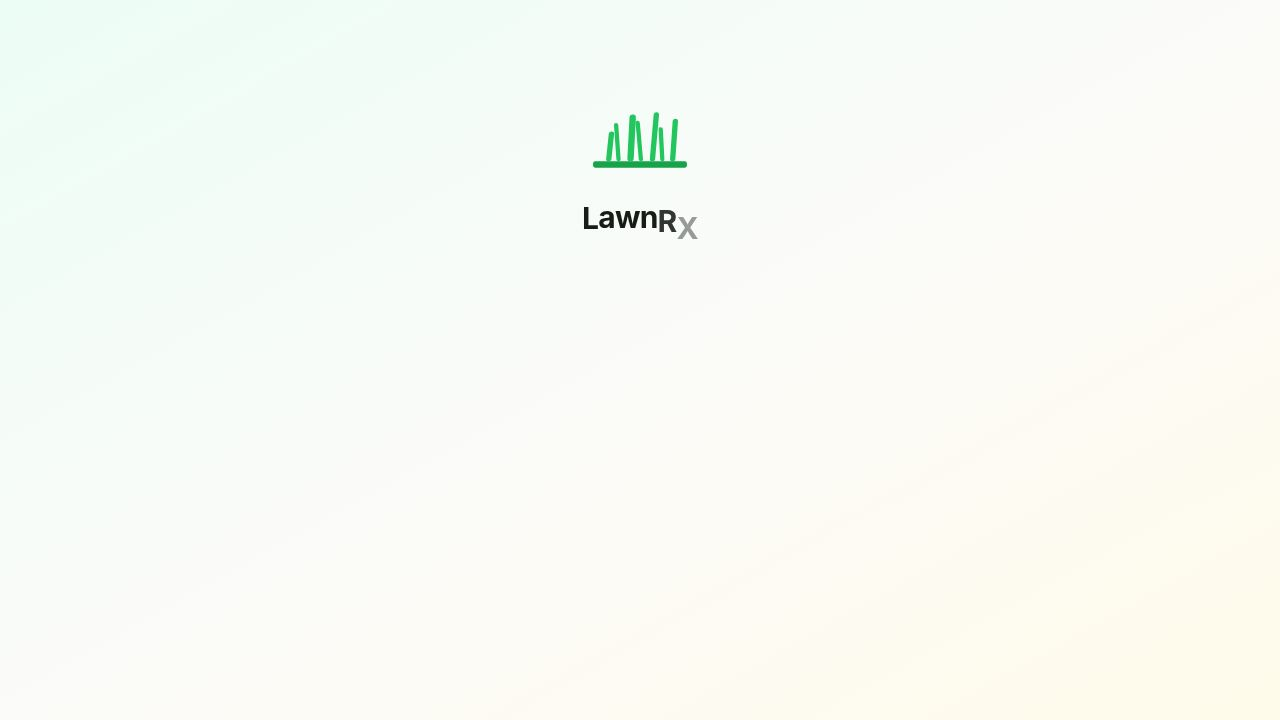
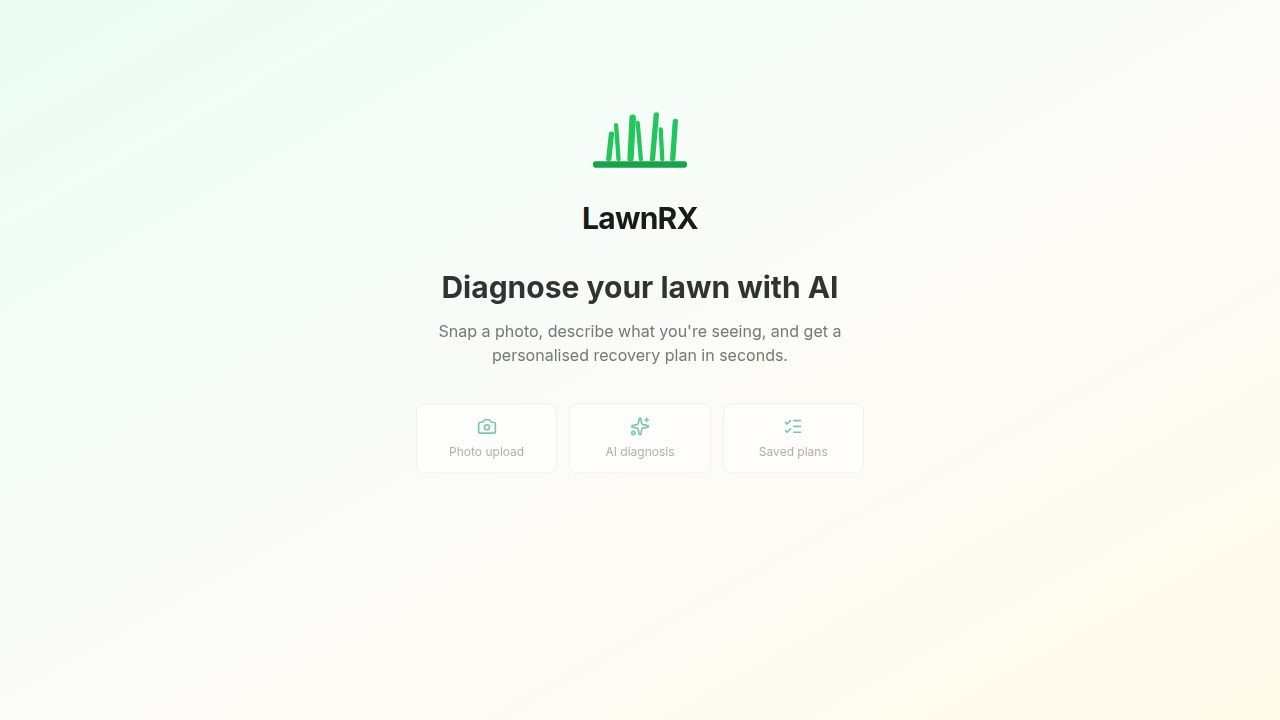
Add a way to contact local lawn care professionals
Create a new modal for users to submit their contact information and diagnosis details to local lawn care professionals, including a consent checkbox for data sharing.

Replit-Commit-Author: Agent
Replit-Commit-Session-Id: 96394951-5170-4deb-966e-e655e372a485
Replit-Commit-Checkpoint-Type: full_checkpoint
Replit-Commit-Event-Id: bee5553d-0084-4e8a-b6e3-bd6ff98102e5
Replit-Commit-Screenshot-Url: https://storage.googleapis.com/screenshot-production-us-central1/fca00479-59ea-4f1e-8a6a-ff94d93cd452/96394951-5170-4deb-966e-e655e372a485/FhUblcH
Replit-Helium-Checkpoint-Created: true

diff --git a/artifacts/lawn-iq/src/components/contact-pro-modal.tsx b/artifacts/lawn-iq/src/components/contact-pro-modal.tsx
@@ -1,0 +1,249 @@
+import { useState } from "react";
+import { useCaptureLead } from "@workspace/api-client-react";
+import { Dialog, DialogContent, DialogHeader, DialogTitle, DialogDescription } from "@/components/ui/dialog";
+import { Button } from "@/components/ui/button";
+import { Input } from "@/components/ui/input";
+import { Label } from "@/components/ui/label";
+import { Checkbox } from "@/components/ui/checkbox";
+import { useToast } from "@/hooks/use-toast";
+import { Leaf, Phone, Mail, MapPin, User, CheckCircle2, Loader2, Building2 } from "lucide-react";
+
+interface ContactProModalProps {
+  open: boolean;
+  onOpenChange: (open: boolean) => void;
+  diagnosisId?: string;
+  diagnosisTitle?: string;
+  prefillName?: string;
+  prefillEmail?: string;
+}
+
+export function ContactProModal({
+  open,
+  onOpenChange,
+  diagnosisId,
+  diagnosisTitle,
+  prefillName = "",
+  prefillEmail = "",
+}: ContactProModalProps) {
+  const { toast } = useToast();
+  const captureLead = useCaptureLead();
+
+  const [name, setName] = useState(prefillName);
+  const [email, setEmail] = useState(prefillEmail);
+  const [phone, setPhone] = useState("");
+  const [address, setAddress] = useState("");
+  const [zipCode, setZipCode] = useState("");
+  const [consented, setConsented] = useState(false);
+  const [submitted, setSubmitted] = useState(false);
+  const [successMessage, setSuccessMessage] = useState("");
+
+  const canSubmit =
+    consented &&
+    name.trim().length >= 2 &&
+    email.trim().length > 3 &&
+    zipCode.trim().length >= 5 &&
+    !captureLead.isPending;
+
+  function handleClose(value: boolean) {
+    if (!value) {
+      setSubmitted(false);
+      setSuccessMessage("");
+      setPhone("");
+      setAddress("");
+      setZipCode("");
+      setConsented(false);
+    }
+    onOpenChange(value);
+  }
+
+  async function handleSubmit(e: React.FormEvent) {
+    e.preventDefault();
+    if (!canSubmit) return;
+
+    try {
+      const result = await captureLead.mutateAsync({
+        data: {
+          name: name.trim(),
+          email: email.trim(),
+          phone: phone.trim() || undefined,
+          address: address.trim() || undefined,
+          zipCode: zipCode.trim(),
+          diagnosisId,
+        },
+      });
+      setSuccessMessage(result.message ?? "Your request has been sent!");
+      setSubmitted(true);
+    } catch {
+      toast({
+        title: "Submission failed",
+        description: "Something went wrong. Please try again.",
+        variant: "destructive",
+      });
+    }
+  }
+
+  return (
+    <Dialog open={open} onOpenChange={handleClose}>
+      <DialogContent className="max-w-md w-full max-h-[90dvh] overflow-y-auto rounded-2xl">
+        {submitted ? (
+          <div className="flex flex-col items-center text-center gap-4 py-6 px-2">
+            <div className="w-16 h-16 rounded-full bg-emerald-100 dark:bg-emerald-900/40 flex items-center justify-center">
+              <CheckCircle2 className="w-8 h-8 text-emerald-600 dark:text-emerald-400" />
+            </div>
+            <div>
+              <h3 className="text-xl font-bold text-foreground">Request Sent!</h3>
+              <p className="text-sm text-muted-foreground mt-2 leading-relaxed">{successMessage}</p>
+            </div>
+            <Button
+              className="w-full rounded-xl mt-2"
+              onClick={() => handleClose(false)}
+            >
+              Done
+            </Button>
+          </div>
+        ) : (
+          <>
+            <DialogHeader className="pb-1">
+              <div className="flex items-center gap-2 mb-1">
+                <div className="w-9 h-9 rounded-xl bg-primary/10 flex items-center justify-center shrink-0">
+                  <Leaf className="w-5 h-5 text-primary" />
+                </div>
+                <DialogTitle className="text-lg font-bold leading-tight">
+                  Contact a Local Professional
+                </DialogTitle>
+              </div>
+              <DialogDescription className="text-sm text-muted-foreground">
+                {diagnosisTitle
+                  ? `Get expert help with "${diagnosisTitle}" from a vetted lawn care pro in your area.`
+                  : "Connect with a vetted lawn care professional in your area."}
+              </DialogDescription>
+            </DialogHeader>
+
+            <form onSubmit={handleSubmit} className="space-y-4 mt-1">
+              {/* Name */}
+              <div className="space-y-1.5">
+                <Label htmlFor="cp-name" className="text-sm font-medium flex items-center gap-1.5">
+                  <User className="w-3.5 h-3.5 text-muted-foreground" />
+                  Your name
+                </Label>
+                <Input
+                  id="cp-name"
+                  value={name}
+                  onChange={(e) => setName(e.target.value)}
+                  placeholder="Jane Smith"
+                  required
+                  minLength={2}
+                  className="rounded-xl"
+                />
+              </div>
+
+              {/* Email */}
+              <div className="space-y-1.5">
+                <Label htmlFor="cp-email" className="text-sm font-medium flex items-center gap-1.5">
+                  <Mail className="w-3.5 h-3.5 text-muted-foreground" />
+                  Email address
+                </Label>
+                <Input
+                  id="cp-email"
+                  type="email"
+                  value={email}
+                  onChange={(e) => setEmail(e.target.value)}
+                  placeholder="[email redacted]"
+                  required
+                  className="rounded-xl"
+                />
+              </div>
+
+              {/* Phone */}
+              <div className="space-y-1.5">
+                <Label htmlFor="cp-phone" className="text-sm font-medium flex items-center gap-1.5">
+                  <Phone className="w-3.5 h-3.5 text-muted-foreground" />
+                  Phone
+                  <span className="text-xs text-muted-foreground font-normal">(optional — helps pros reach you faster)</span>
+                </Label>
+                <Input
+                  id="cp-phone"
+                  type="tel"
+                  value={phone}
+                  onChange={(e) => setPhone(e.target.value)}
+                  placeholder="(555) 123-4567"
+                  className="rounded-xl"
+                />
+              </div>
+
+              {/* ZIP */}
+              <div className="space-y-1.5">
+                <Label htmlFor="cp-zip" className="text-sm font-medium flex items-center gap-1.5">
+                  <MapPin className="w-3.5 h-3.5 text-muted-foreground" />
+                  ZIP code
+                </Label>
+                <Input
+                  id="cp-zip"
+                  value={zipCode}
+                  onChange={(e) => setZipCode(e.target.value.replace(/\D/g, "").slice(0, 10))}
+                  placeholder="30301"
+                  required
+                  minLength={5}
+                  maxLength={10}
+                  className="rounded-xl"
+                />
+              </div>
+
+              {/* Address */}
+              <div className="space-y-1.5">
+                <Label htmlFor="cp-address" className="text-sm font-medium flex items-center gap-1.5">
+                  <Building2 className="w-3.5 h-3.5 text-muted-foreground" />
+                  Address
+                  <span className="text-xs text-muted-foreground font-normal">(optional)</span>
+                </Label>
+                <Input
+                  id="cp-address"
+                  value={address}
+                  onChange={(e) => setAddress(e.target.value)}
+                  placeholder="123 Main St"
+                  className="rounded-xl"
+                />
+              </div>
+
+              {/* Consent checkbox */}
+              <div className="flex items-start gap-3 p-4 rounded-2xl bg-muted/40 border border-border/60">
+                <Checkbox
+                  id="cp-consent"
+                  checked={consented}
+                  onCheckedChange={(checked) => setConsented(checked === true)}
+                  className="mt-0.5 shrink-0"
+                />
+                <Label
+                  htmlFor="cp-consent"
+                  className="text-xs text-muted-foreground leading-relaxed cursor-pointer select-none"
+                >
+                  I agree that LawnRX may share my contact information and lawn diagnosis details
+                  with local lawn care professionals for the purpose of providing service estimates
+                  and assistance.
+                </Label>
+              </div>
+
+              <Button
+                type="submit"
+                disabled={!canSubmit}
+                className="w-full rounded-xl py-6 text-base gap-2"
+              >
+                {captureLead.isPending ? (
+                  <>
+                    <Loader2 className="w-4 h-4 animate-spin" />
+                    Sending request…
+                  </>
+                ) : (
+                  <>
+                    <Leaf className="w-4 h-4" />
+                    Connect with a Local Pro
+                  </>
+                )}
+              </Button>
+            </form>
+          </>
+        )}
+      </DialogContent>
+    </Dialog>
+  );
+}

diff --git a/artifacts/lawn-iq/src/components/diagnosis-result.tsx b/artifacts/lawn-iq/src/components/diagnosis-result.tsx
@@ -4,15 +4,17 @@ import {
   Droplets, Sun, AlertTriangle, Activity, Save, Leaf,
   FlaskConical, ShieldCheck, Clock, Microscope, CloudSun,
   ArrowRight, ChevronDown, ChevronUp, TriangleAlert, Info,
-  CheckCircle2, Lock, Sparkles,
+  CheckCircle2, Lock, Sparkles, HardHat,
 } from "lucide-react";
 import { Button } from "@/components/ui/button";
 import { Card, CardContent } from "@/components/ui/card";
 import type { Diagnosis } from "@workspace/api-client-react";
 import { TipOfTheDay } from "./tip-of-the-day";
+import { ContactProModal } from "./contact-pro-modal";
 
 interface Props {
   diagnosis: Diagnosis;
+  diagnosisId?: string;
   onSave?: () => void;
   isSaving?: boolean;
   showSaveButton?: boolean;
@@ -101,9 +103,10 @@ function HealthRing({ score }: { score: number }) {
   );
 }
 
-export function DiagnosisResult({ diagnosis, onSave, isSaving = false, showSaveButton = true, isPro = false, onUpgrade }: Props) {
+export function DiagnosisResult({ diagnosis, diagnosisId, onSave, isSaving = false, showSaveButton = true, isPro = false, onUpgrade }: Props) {
   const sev = SEVERITY_CONFIG[diagnosis.severity];
   const [showDifferential, setShowDifferential] = useState(false);
+  const [showContactPro, setShowContactPro] = useState(false);
 
   return (
     <div className="space-y-5 animate-in fade-in slide-in-from-bottom-8 duration-500">
@@ -385,6 +388,35 @@ export function DiagnosisResult({ diagnosis, onSave, isSaving = false, showSaveB
           </div>
         </Card>
       )}
+
+      {/* ── Contact a Local Pro ── */}
+      <div className="rounded-2xl border border-emerald-200 dark:border-emerald-800/50 bg-emerald-50/60 dark:bg-emerald-950/20 p-5 flex flex-col sm:flex-row items-start sm:items-center gap-4">
+        <div className="w-10 h-10 rounded-xl bg-emerald-100 dark:bg-emerald-900/50 flex items-center justify-center shrink-0">
+          <HardHat className="w-5 h-5 text-emerald-700 dark:text-emerald-400" />
+        </div>
+        <div className="flex-1 min-w-0">
+          <p className="font-semibold text-sm text-foreground">Need hands-on help?</p>
+          <p className="text-xs text-muted-foreground mt-0.5 leading-relaxed">
+            Connect with a vetted lawn care professional in your area for a service estimate.
+          </p>
+        </div>
+        <Button
+          variant="outline"
+          size="sm"
+          className="rounded-xl shrink-0 border-emerald-300 dark:border-emerald-700 text-emerald-700 dark:text-emerald-400 hover:bg-emerald-100 dark:hover:bg-emerald-900/40 gap-1.5"
+          onClick={() => setShowContactPro(true)}
+        >
+          <HardHat className="w-3.5 h-3.5" />
+          Contact a Pro
+        </Button>
+      </div>
+
+      <ContactProModal
+        open={showContactPro}
+        onOpenChange={setShowContactPro}
+        diagnosisId={diagnosisId}
+        diagnosisTitle={diagnosis.title}
+      />
 
       {/* ── Tip of the Day ── */}
       <TipOfTheDay />

diff --git a/artifacts/lawn-iq/src/pages/home.tsx b/artifacts/lawn-iq/src/pages/home.tsx
@@ -405,6 +405,7 @@ export default function Home() {
       {currentDiagnosis && !analyzeLawn.isPending && (
         <DiagnosisResult
           diagnosis={currentDiagnosis}
+          diagnosisId={currentDiagnosis.id}
           onSave={handleSave}
           isSaving={saveDiagnosis.isPending}
           isPro={isPro}